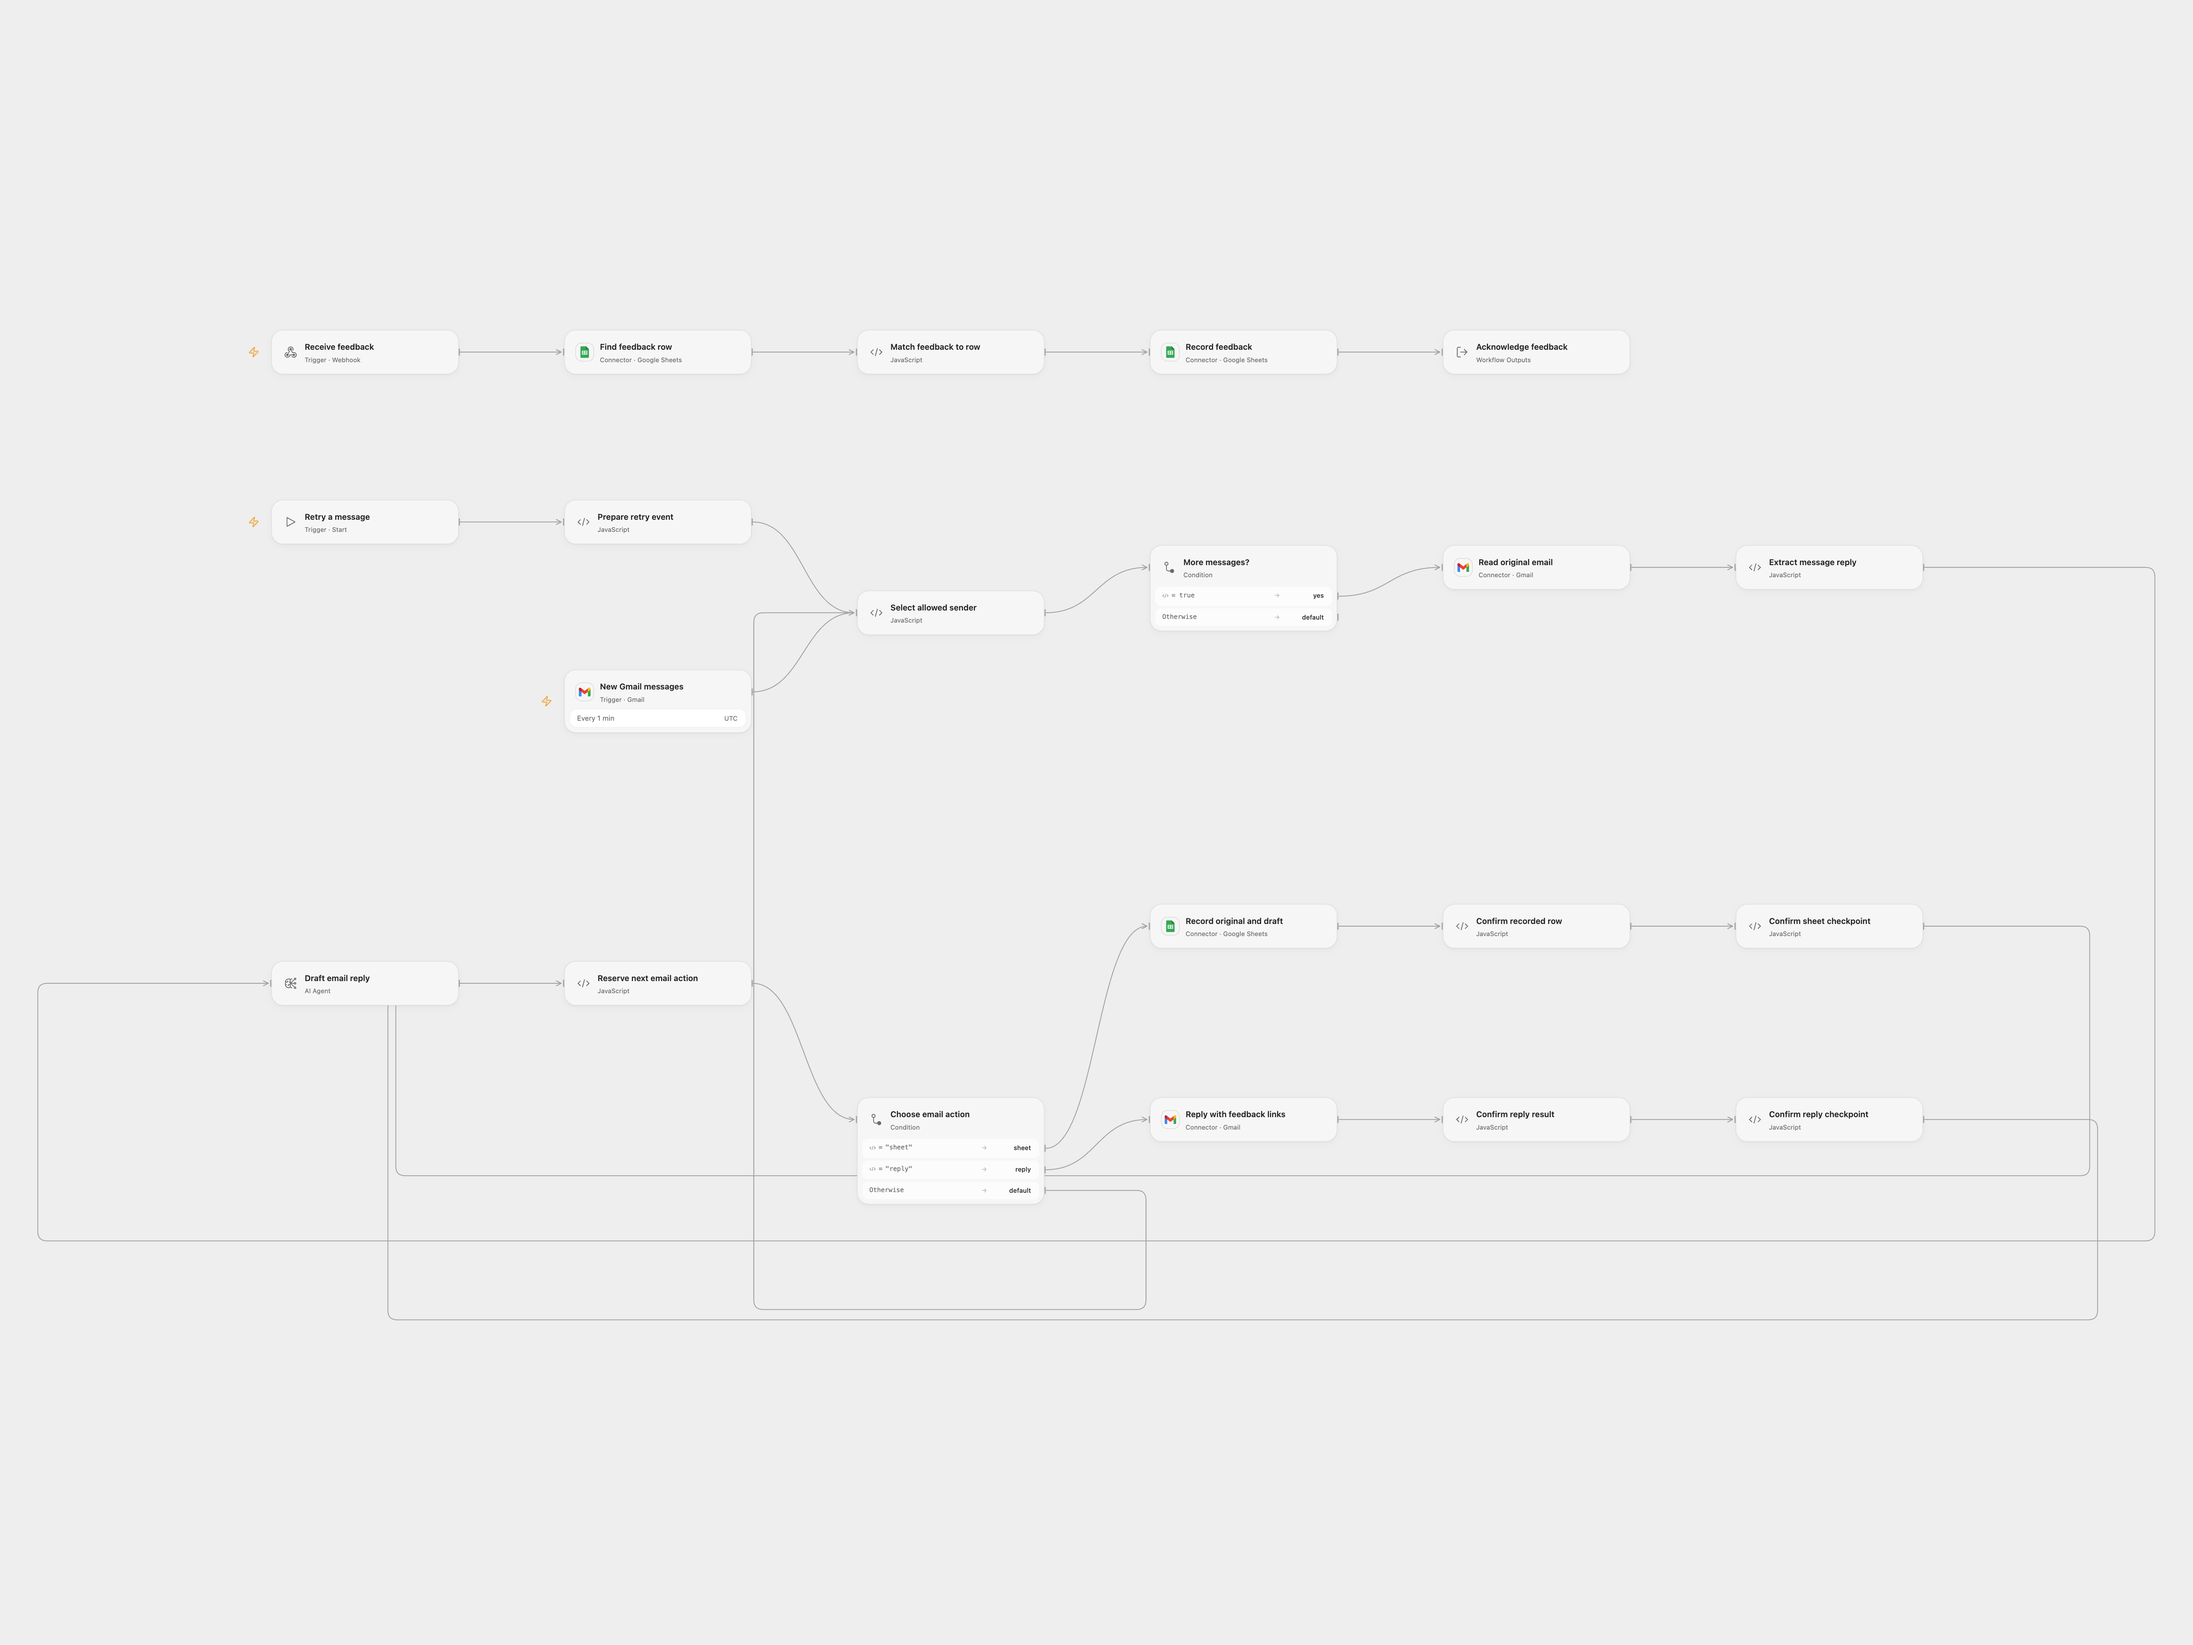
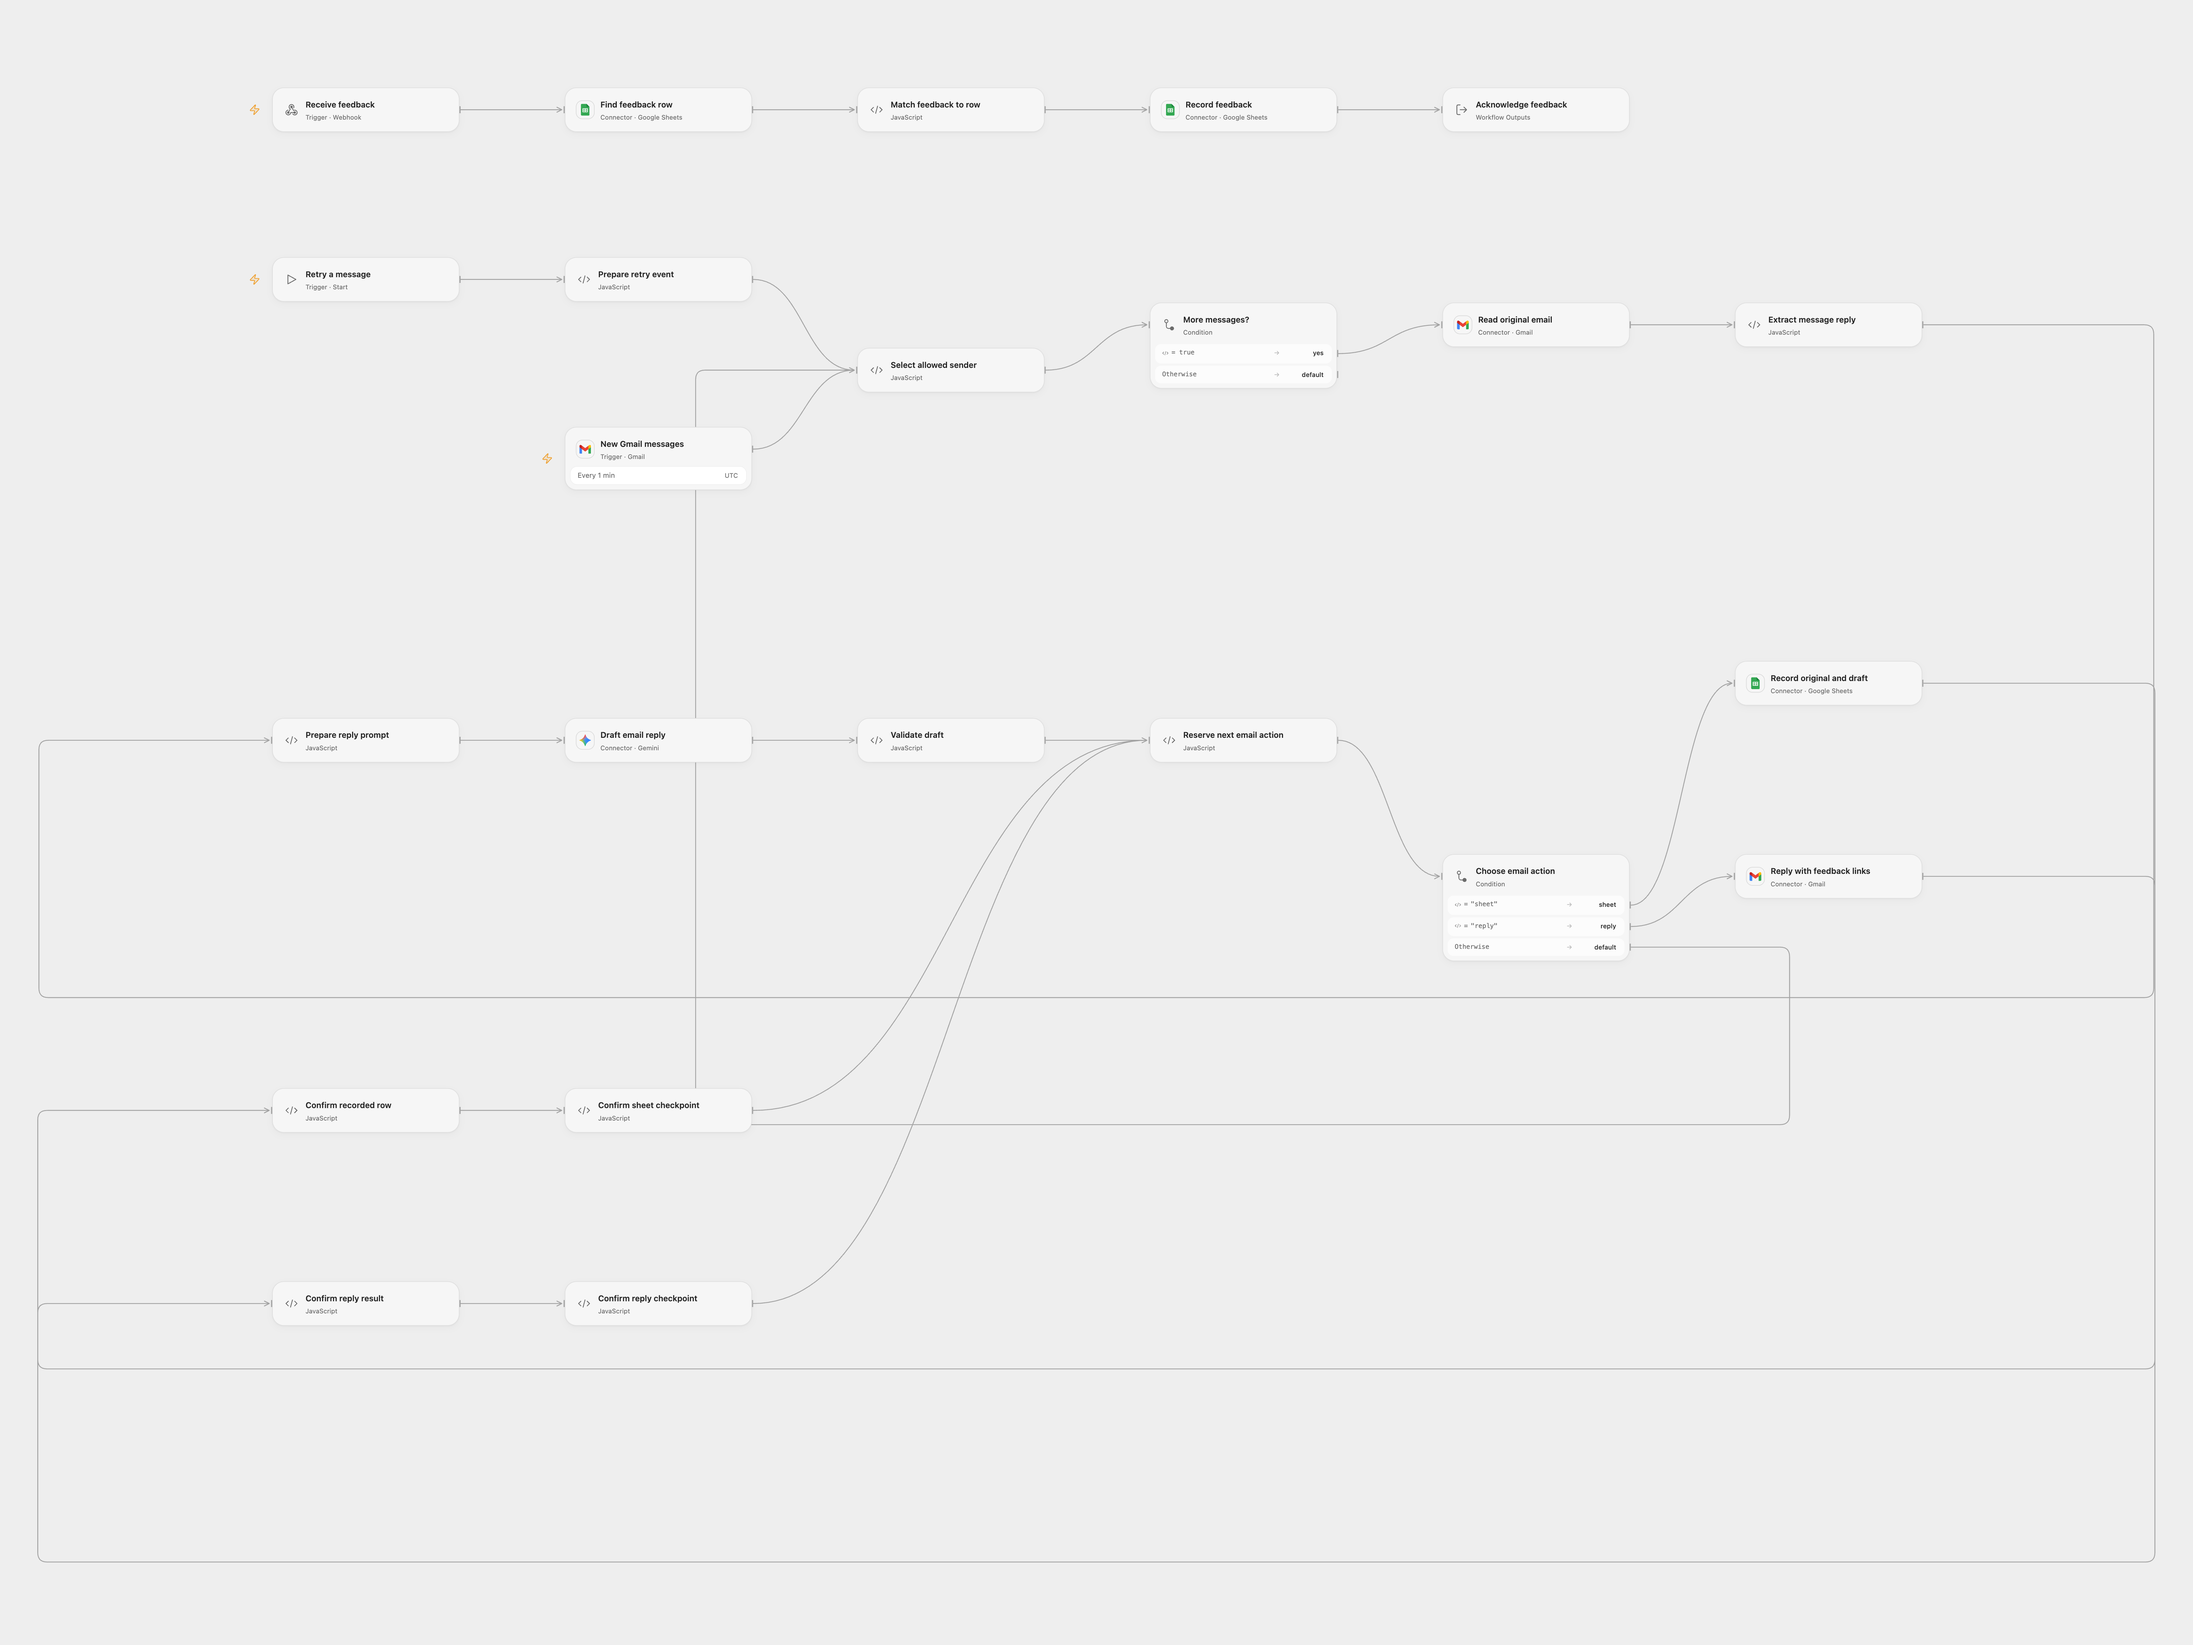
fix: use compatible model for Gmail feedback workflow

diff --git a/workflows/draft-gmail-replies-with-sheet-feedback/README.md b/workflows/draft-gmail-replies-with-sheet-feedback/README.md
@@ -11,7 +11,7 @@ Draft replies to selected Gmail messages and record recipient feedback in Google
 
 ## Setup
 
-Connect Gmail, Google Sheets and an AI model. Create a sheet named Database with columns ID, Initial message, Generated reply and Good response?. Enter its ID in all three Sheets nodes, configure sender addresses in **Select allowed sender**, and set the public feedback webhook URL in **Reserve next email action**. Enable persistent State and use one format at a time. In n8n configure Gmail, OpenAI, Google Sheets, the matching spreadsheet and sheet IDs, the allowed senders and the feedback URL. Select the same Data Table in all checkpoint nodes, with text columns item_key, status, token, initial and draft.
+Connect Gmail, Google Sheets and Gemini. Create a sheet named Database with columns ID, Initial message, Generated reply and Good response?. Enter its ID in all three Sheets nodes, configure sender addresses in **Select allowed sender**, and set the public feedback webhook URL in **Reserve next email action**. Enable persistent State and use one format at a time. In n8n configure Gmail, Gemini, Google Sheets, the matching spreadsheet and sheet IDs, the allowed senders and the feedback URL. Select the same Data Table in all checkpoint nodes, with text columns item_key, status, token, initial and draft.
 
 ## Behavior
 
